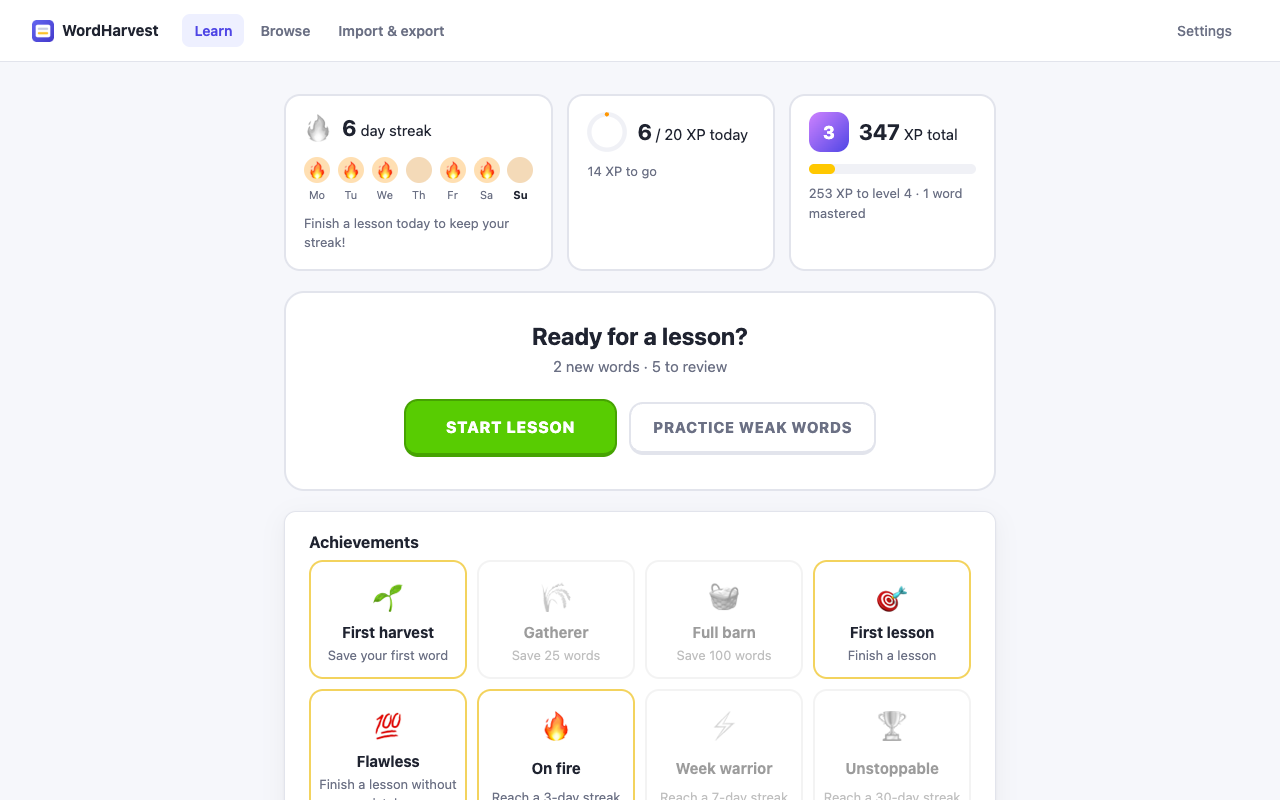
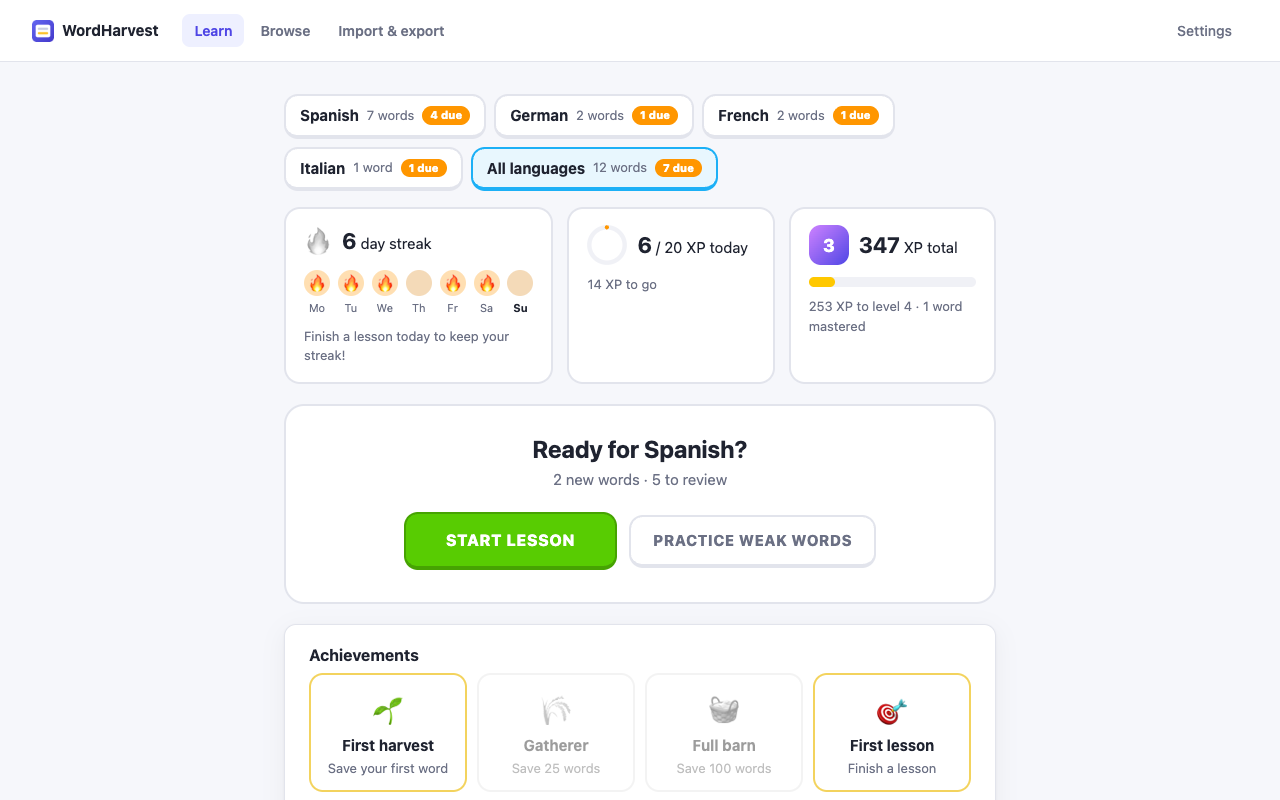
docs: document language groups and Tatoeba sentences; update privacy policy and screenshots

diff --git a/README.md b/README.md
@@ -24,12 +24,17 @@ A Chrome extension (Manifest V3) for picking up vocabulary from the pages you re
 - Double-clicks in inputs, textareas, selects and contenteditable areas are ignored.
 
 **Learning**
-- **Lessons** of about 10 exercises. Exercises get harder as you learn a word:
-  1. **New word** card, then pick its meaning
-  2. pick the meaning, or **listen** and pick it
-  3. **fill in the blank** in the sentence you saved, choosing from word chips
-  4. **type the missing word**; typos and missing accents count as nearly right
-  5. **match the pairs** bonus round
+- **Language groups:** pick a language at the top of the Learn page; each lesson uses one language only. With *All languages*, the next lesson uses the language with the most words due. Browse can filter by language and groups words under language headings.
+- **Lessons** of about 10 exercises. Each word gets a random mix of the exercise types that suit how well you know it:
+  1. **New word** card (with every sentence it's known from), then pick its meaning
+  2. pick the meaning, **listen** and pick it, **what does this sentence mean?**, fill in the blank from word chips
+  3. **build the sentence** from word tiles, **type the missing word**, **type what you hear**
+  4. a **match the pairs** bonus round
+- **More sentences than the one you saved.** Exercises draw on every sentence a word appears in:
+  - the sentence(s) you saved it from
+  - other sentences you saved that contain the word ("From your reading")
+  - up to 4 short sentences with human translations from [Tatoeba](https://tatoeba.org) (CC BY 2.0 FR, credited on screen), fetched the first time a word is practised and refreshed monthly. This can be turned off in Settings.
+- Typos and missing accents count as nearly right.
 - Wrong answers come back later in the same lesson.
 - **Grading:** answers are checked automatically and feed the SM-2 schedule: wrong → *again*, typo → *hard*, right → *good*, typed right on a strong word → *easy*.
 - **XP** for correct answers, combos (5+ in a row), finishing lessons, perfect lessons, and every new word you save.
@@ -72,10 +77,10 @@ npm run store-assets   # regenerate icons, screenshots and promo tile (uses your
 | --- | --- |
 | Any web page | Double-click a word to see the popup. **Save** saves the word (+1 XP). **Esc** or a click outside closes the popup. Use the language menu if the language was detected wrong. |
 | Toolbar icon | Shows your streak, today's XP against your goal, and due words. **Start lesson** goes straight into a lesson. |
-| Learn | Home: streak, daily goal, level and achievements. **Start lesson**, or **Practice weak words** when nothing is due. In a lesson: **1–4** pick, **Enter** check / continue, **Skip** if you don't know. |
-| Browse | Search across words, translations and sentences. Bars show each word's strength. Click a word to edit it, delete it, or reset its progress. |
+| Learn | Home: language switcher, streak, daily goal, level and achievements. **Start lesson**, or **Practice weak words** when nothing is due. In a lesson: **1–4** pick, **Enter** check / continue, **Skip** if you don't know. |
+| Browse | Filter by language, search across words, translations and sentences. Bars show each word's strength. Click a word to edit it, delete it, or reset its progress. |
 | Import & export | JSON (lossless), CSV (one row per example sentence), and Anki CSV export. JSON and CSV import merges into existing words. |
-| Settings | Target language, auto-save, translating example sentences, daily goal, sound effects, listening exercises, translation provider, and an optional MyMemory e-mail for a higher free quota. |
+| Settings | Target language, auto-save, translating example sentences, daily goal, sound effects, listening exercises, extra Tatoeba sentences, translation provider, and an optional MyMemory e-mail for a higher free quota. |
 
 **Importing into Anki (2.1.55+):** use *File → Import* and choose the exported `wordharvest-anki-*.csv`. The file's header lines set the separator, the HTML option and the tags column. Choose the **Basic** note type.
 
@@ -102,8 +107,8 @@ npm run store-assets   # regenerate icons, screenshots and promo tile (uses your
 
 - **Content script** (`src/content/`): listens for `dblclick`, ignores editable targets, and cleans the selection. It walks up to the nearest block element and builds that block's text. It then finds the sentence that contains the word, detects the language from that sentence (more reliable than from a single word), translates the word, and renders the popup. Chrome's on-device Translator and LanguageDetector APIs only exist in window contexts, not in service workers, so they run here.
 - **Service worker** (`src/background/`): saves every word for the content script and records every finished lesson. It does one write at a time, so saves from several tabs and lesson results can't overwrite each other. It also awards XP, updates the streak and unlocks achievements. It also calls the remote translation provider. The service worker is the only place with a host permission for the translation API.
-- **Pages** (`src/pages/`): plain TypeScript, no framework. `learn/home.ts` shows progress and starts lessons; `learn/lesson.ts` runs them (rendering, answer checking, rescheduling words, summary); `fx.ts` has sounds, speech and confetti. Pages write words directly and send lesson results to the service worker.
-- **Shared logic** (`src/shared/`): pure functions with unit tests (`srs.ts` scheduling, `exercises.ts` lesson building and answer checking, `progress.ts` XP / streak / levels / achievements, `cards.ts`, `csv.ts`, `highlight.ts`) and thin storage wrappers (`storage.ts`, `settings.ts`).
+- **Pages** (`src/pages/`): plain TypeScript, no framework. `learn/home.ts` shows progress and the language switcher and starts lessons; `learn/enrich.ts` fetches Tatoeba sentences in the background; `learn/lesson.ts` runs them (rendering, answer checking, rescheduling words, summary); `fx.ts` has sounds, speech and confetti. Pages write words directly and send lesson results to the service worker.
+- **Shared logic** (`src/shared/`): pure functions with unit tests (`srs.ts` scheduling, `exercises.ts` lesson building and answer checking, `contexts.ts` every sentence a word appears in, `tatoeba.ts` extra sentences, `progress.ts` XP / streak / levels / achievements, `cards.ts`, `csv.ts`, `highlight.ts`) and thin storage wrappers (`storage.ts`, `settings.ts`).
 
 Build: esbuild bundles each entry point (content script and pages as IIFE, service worker as ESM) into `dist/`, and copies `public/` (manifest, HTML, CSS, icons) next to them. The output is not minified, which makes Chrome Web Store reviews faster.
 
@@ -122,6 +127,10 @@ interface Card {
     url: string; title: string; addedAt: number;
   }[];
   srs: { due: number; interval: number; ease: number; reps: number; lapses: number; lastReviewed?: number };
+  more?: {               // extra sentences from Tatoeba (refreshed every 30 days)
+    sentences: { text: string; translation?: string; source: 'tatoeba'; id: number; author?: string }[];
+    fetchedAt: number; lang: string;
+  };
   createdAt: number; updatedAt: number;
 }
 // key: "progress"
@@ -133,7 +142,7 @@ interface Progress {
   achievements: Record<string, number>;   // id → unlock time
 }
 // key: "settings" → { targetLang, autoSave, translateSentences, provider: "auto"|"builtin"|"remote",
-//                     myMemoryEmail, dailyGoal, soundEffects, listening }
+//                     myMemoryEmail, dailyGoal, soundEffects, listening, moreSentences, activeLang }
 ```
 
 Each card has its own key, so saving a word writes about 1 KB instead of rewriting the whole collection. `chrome.storage.local` holds 10 MB, which is roughly 10,000 cards with a few example sentences each. If you need more, add the `unlimitedStorage` permission or move to IndexedDB. Only `src/shared/storage.ts` would need to change.
@@ -212,7 +221,7 @@ The extension deliberately does **not** request these:
 
 ## Privacy
 
-Everything is stored locally. Text is sent to MyMemory only when the online fallback is used, and only the word or sentence being translated. See [`store/privacy-policy.md`](store/privacy-policy.md), published at https://talipturkmen.github.io/wordharvest/privacy-policy/.
+Everything is stored locally. Text is sent to MyMemory only when the online fallback is used, and only the word or sentence being translated. When extra sentences are on, the word being practised (and its language codes) is sent to Tatoeba's public API. Tatoeba's API allows cross-origin requests, so this needs no extra permission. See [`store/privacy-policy.md`](store/privacy-policy.md), published at https://talipturkmen.github.io/wordharvest/privacy-policy/.
 
 ## Releasing a new version
 

diff --git a/store/privacy-policy.md b/store/privacy-policy.md
@@ -34,6 +34,10 @@ This data never leaves your device unless you export it yourself. The extension 
 
    The extension does **not** send the page URL, the page title, other page content, or your saved cards. MyMemory's own privacy policy applies to these requests: https://mymemory.translated.net/doc/privacy.php. To keep everything on your device, choose **On-device only** in the settings.
 
+## Extra example sentences (Tatoeba)
+
+To give you more practice than the one sentence you saved, WordHarvest can fetch a few short example sentences for the words you are practising from Tatoeba (`api.tatoeba.org`), a free, open collection of sentences and translations. When this is on, the extension sends Tatoeba only the word being practised and the two language codes (for example "aprovechar", Spanish → English). It does not send the page, the sentence you saved, or anything else. Fetched sentences are stored with the word on your device. You can turn this off in the settings ("More example sentences from Tatoeba").
+
 ## Pronunciation (listening exercises)
 
 Lessons can read words aloud using your browser's built-in speech voices. WordHarvest prefers voices that run on your device. If your system only has an online voice for a language (for example Chrome's "Google" voices), Chrome sends the word to be spoken to Google to produce the audio. You can turn listening off in the settings.
@@ -41,7 +45,7 @@ Lessons can read words aloud using your browser's built-in speech voices. WordHa
 ## What the extension does not do
 
 - It does not collect analytics, telemetry or personal information.
-- It does not read or transmit page content, except the selected word and its sentence when you double-click a word, as described above.
+- It does not read or transmit page content, except the selected word and its sentence when you double-click a word, and the word being practised when extra sentences are on, as described above.
 - It does not sell, rent, or share your data with third parties, and it does not use your data for advertising or creditworthiness.
 - It does not use or transfer your data for any purpose unrelated to its single purpose: translating words and helping you learn them.
 

diff --git a/store/permissions-justification.md b/store/permissions-justification.md
@@ -16,6 +16,10 @@ WordHarvest helps users learn vocabulary while reading: double-click a word on a
 | Host permission: content script on `http://*/*` and `https://*/*` | The core feature is double-clicking any word on any web page to translate it, so the content script that detects the double-click, reads the surrounding sentence and shows the translation popup must run on all http/https pages. |
 | Host permission: `https://api.mymemory.translated.net/*` | When Chrome's on-device translator does not support a language pair, the background service worker sends the selected word or sentence to the MyMemory translation API, and only to that domain. |
 
+### Note for reviewers: Tatoeba requests
+
+Lesson pages fetch example sentences from `https://api.tatoeba.org` (JSON only). That API sends `Access-Control-Allow-Origin: *`, so no host permission is requested for it. The request is disclosed in the privacy policy and can be turned off in the settings.
+
 ## Remote code
 
 **No, I am not using remote code.** All JavaScript is included in the extension package. The only network request is to a JSON translation API.
@@ -24,7 +28,7 @@ WordHarvest helps users learn vocabulary while reading: double-click a word on a
 
 Check this data type:
 
-- **Website content.** The selected word and its sentence are sent to the MyMemory translation API, only when the online fallback is used.
+- **Website content.** The selected word and its sentence are sent to the MyMemory translation API, only when the online fallback is used. When the "More example sentences" setting is on, saved words are also sent to Tatoeba's public sentence API to fetch example sentences.
 
 Leave all other types unchecked. Page URLs and titles are stored only on the device and are never transmitted.
 

diff --git a/store/listing.md b/store/listing.md
@@ -31,7 +31,9 @@ HARVEST WORDS WHILE YOU READ
 • The sentence, page title and link are saved with the word. Found it again elsewhere? The new sentence is added to the same word.
 
 LEARN WITH GAME-LIKE LESSONS
-• Exercises that grow with you: meet the word, pick its meaning, listen, fill in the blank in your own sentence, type the missing word, match the pairs.
+• Exercises that grow with you: meet the word, pick its meaning, listen, fill in the blank, build the sentence from word tiles, translate whole sentences, type what you hear, match the pairs.
+• More than one sentence per word: practise with the sentence you saved, others from your reading, and free example sentences from Tatoeba.
+• Learning several languages? Each lesson sticks to one language, and you can switch with one click.
 • Answers are checked for you — small typos and missing accents still count.
 • Mistakes come back at the end of the lesson so you get them right.
 • Smart scheduling (spaced repetition) brings each word back right before you'd forget it.
